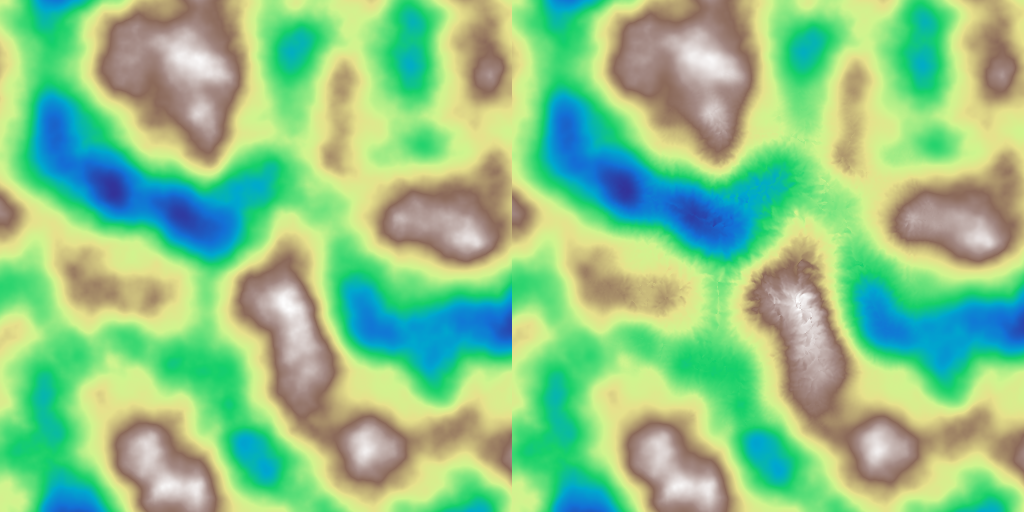
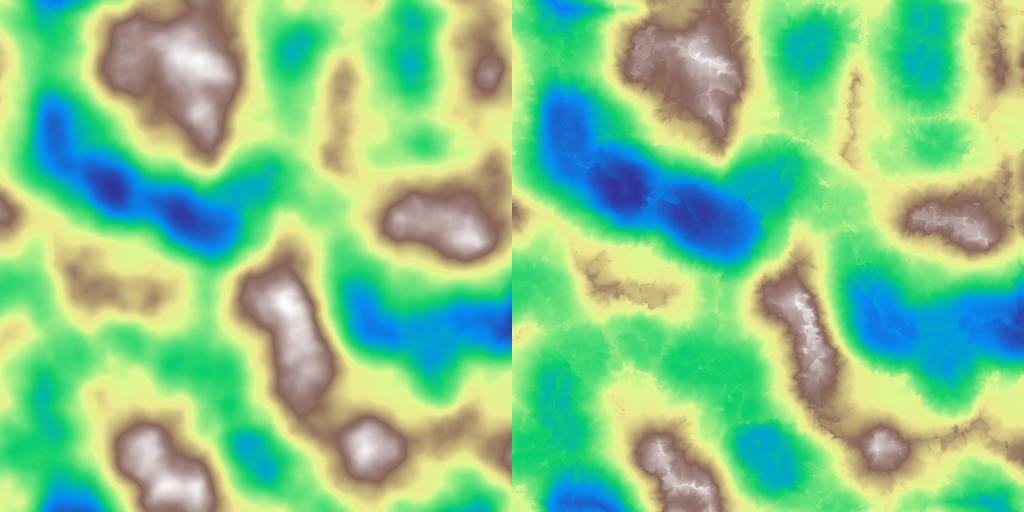
Switch to array noise function for downslope warping operators

diff --git a/HighMap/src/op/warp.cpp b/HighMap/src/op/warp.cpp
@@ -33,9 +33,9 @@ void warp_directional(Array &array,
                       int    ir,
                       bool   reverse)
 {
-  // same as warp_downslope but add a reference angle to scale the
-  // amount of warping
-  float arad = angle / 180.f * M_PI;
+  // --- define displacement: same as warp_downslope but add a
+  // --- reference angle to scale the amount of warping
+  float angle_rad = angle / 180.f * M_PI;
 
   Array array_new = Array(array.shape);
   Array alpha = Array(array.shape);
@@ -44,35 +44,17 @@ void warp_directional(Array &array,
     Array array_f = array;
     if (ir > 0)
       smooth_cpulse(array_f, ir);
-
     alpha = gradient_angle(array_f);
   }
-
-  // add a shape factor to avoid artifacts close to the boundaries
-  Array factor = smooth_cosine(array.shape);
 
   if (reverse)
     amount = -amount;
 
-  for (int i = 1; i < array.shape.x - 1; i++)
-    for (int j = 1; j < array.shape.y - 1; j++)
-    {
+  Array ca = amount * cos(alpha - angle_rad);
+  Array sa = amount * sin(alpha - angle_rad);
 
-      float x = (float)i + amount * std::cos(alpha(i, j) - arad) * factor(i, j);
-      float y = (float)j + amount * std::sin(alpha(i, j) - arad) * factor(i, j);
-
-      // bilinear interpolation parameters
-      int ip = std::clamp((int)x, 0, array.shape.x - 1);
-      int jp = std::clamp((int)y, 0, array.shape.y - 1);
-
-      float u = std::clamp(x - (float)ip, 0.f, 1.f);
-      float v = std::clamp(y - (float)jp, 0.f, 1.f);
-
-      array_new(i, j) = array.get_value_bilinear_at(ip, jp, u, v);
-    }
-  extrapolate_borders(array_new);
-
-  array = array_new;
+  // --- warp
+  warp(array, &ca, &sa);
 }
 
 void warp_directional(Array &array,
@@ -105,31 +87,13 @@ void warp_downslope(Array &array, float amount, int ir, bool reverse)
     alpha = gradient_angle(array_f);
   }
 
-  // add a shape factor to avoid artifacts close to the boundaries
-  Array factor = smooth_cosine(array.shape);
-
   if (reverse)
     amount = -amount;
 
-  for (int i = 1; i < array.shape.x - 1; i++)
-    for (int j = 1; j < array.shape.y - 1; j++)
-    {
+  Array ca = amount * cos(alpha);
+  Array sa = amount * sin(alpha);
 
-      float x = (float)i + amount * std::cos(alpha(i, j)) * factor(i, j);
-      float y = (float)j + amount * std::sin(alpha(i, j)) * factor(i, j);
-
-      // bilinear interpolation parameters
-      int ip = std::clamp((int)x, 0, array.shape.x - 1);
-      int jp = std::clamp((int)y, 0, array.shape.y - 1);
-
-      float u = std::clamp(x - (float)ip, 0.f, 1.f);
-      float v = std::clamp(y - (float)jp, 0.f, 1.f);
-
-      array_new(i, j) = array.get_value_bilinear_at(ip, jp, u, v);
-    }
-  extrapolate_borders(array_new);
-
-  array = array_new;
+  warp(array, &ca, &sa);
 }
 
 void warp_downslope(Array &array,

diff --git a/HighMap/include/highmap/op.hpp b/HighMap/include/highmap/op.hpp
@@ -2523,14 +2523,14 @@ void warp(Array &array, Array *p_dx, Array *p_dy);
  */
 void warp_directional(Array &array,
                       float  angle,
-                      float  amount = 1.f,
+                      float  amount = 0.02f,
                       int    ir = 4,
                       bool   reverse = false);
 
 void warp_directional(Array &array,
                       float  angle,
                       Array *p_mask,
-                      float  amount = 1.f,
+                      float  amount = 0.02f,
                       int    ir = 4,
                       bool   reverse = false); ///< @overload
 
@@ -2551,13 +2551,13 @@ void warp_directional(Array &array,
  * @image html ex_warp_downslope.png
  */
 void warp_downslope(Array &array,
-                    float  amount = 1.f,
+                    float  amount = 0.02f,
                     int    ir = 4,
                     bool   reverse = false);
 
 void warp_downslope(Array &array,
                     Array *p_mask,
-                    float  amount = 1.f,
+                    float  amount = 0.02f,
                     int    ir = 4,
                     bool   reverse = false); ///< @overload
 

diff --git a/examples/ex_warp_directional/ex_warp_directional.cpp b/examples/ex_warp_directional/ex_warp_directional.cpp
@@ -13,7 +13,7 @@ int main(void)
   hmap::remap(mask);
 
   hmap::Array z2 = z1;
-  hmap::warp_directional(z2, 30.f, 10.f, 0, true);
+  hmap::warp_directional(z2, 30.f, 0.02f, 0, true);
 
   hmap::export_banner_png("ex_warp_directional.png",
                           {z1, z2},

diff --git a/examples/ex_warp_downslope/ex_warp_downslope.cpp b/examples/ex_warp_downslope/ex_warp_downslope.cpp
@@ -12,7 +12,7 @@ int main(void)
   hmap::remap(mask);
 
   hmap::Array z2 = z1;
-  hmap::warp_downslope(z2, &mask, 5.f, 4, false);
+  hmap::warp_downslope(z2, &mask, 0.02f, 4, false);
 
   hmap::export_banner_png("ex_warp_downslope.png",
                           {z1, z2},
